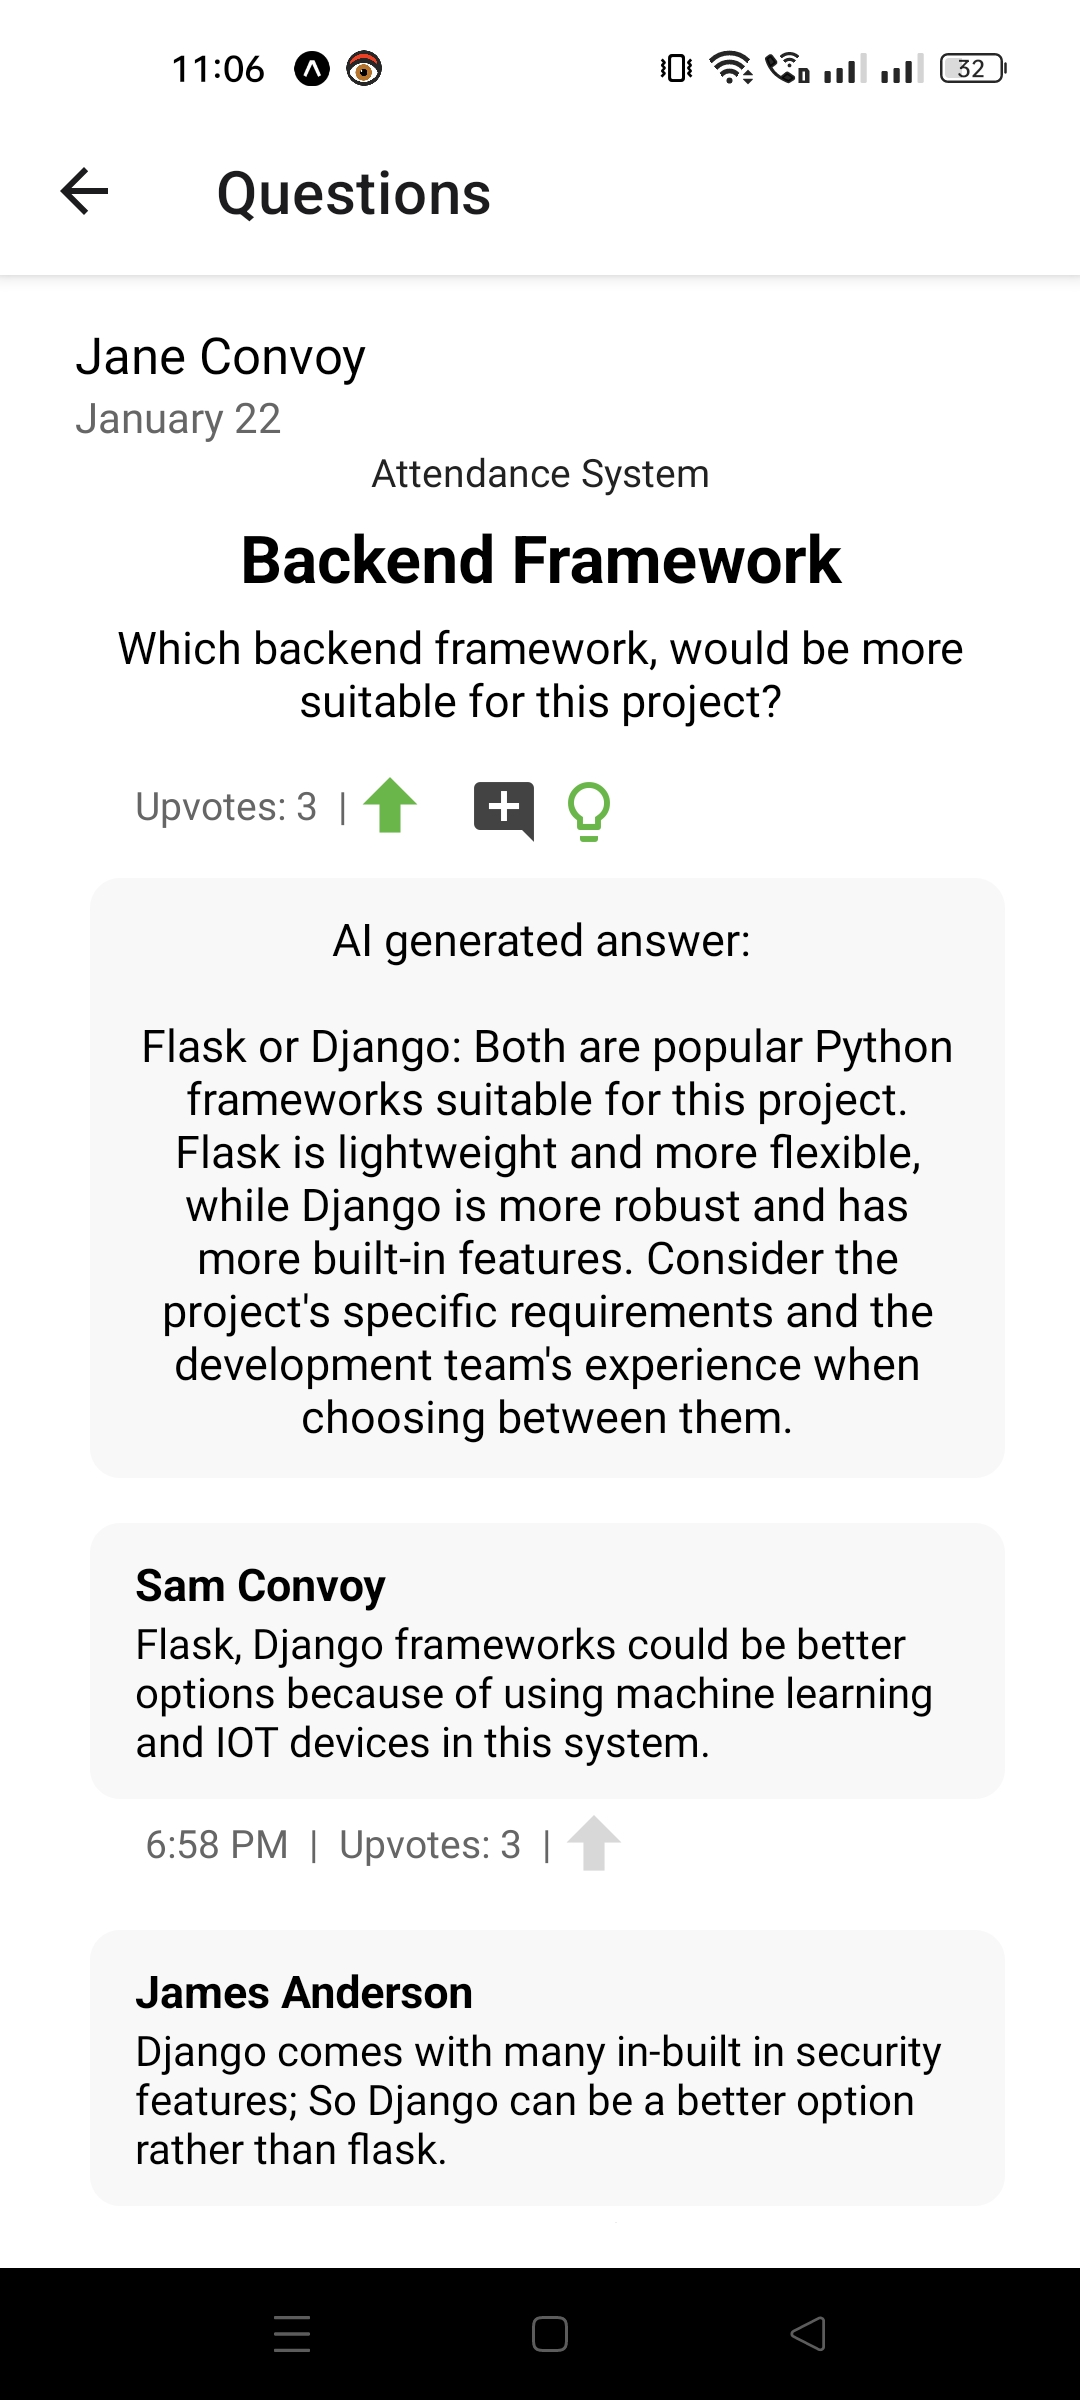
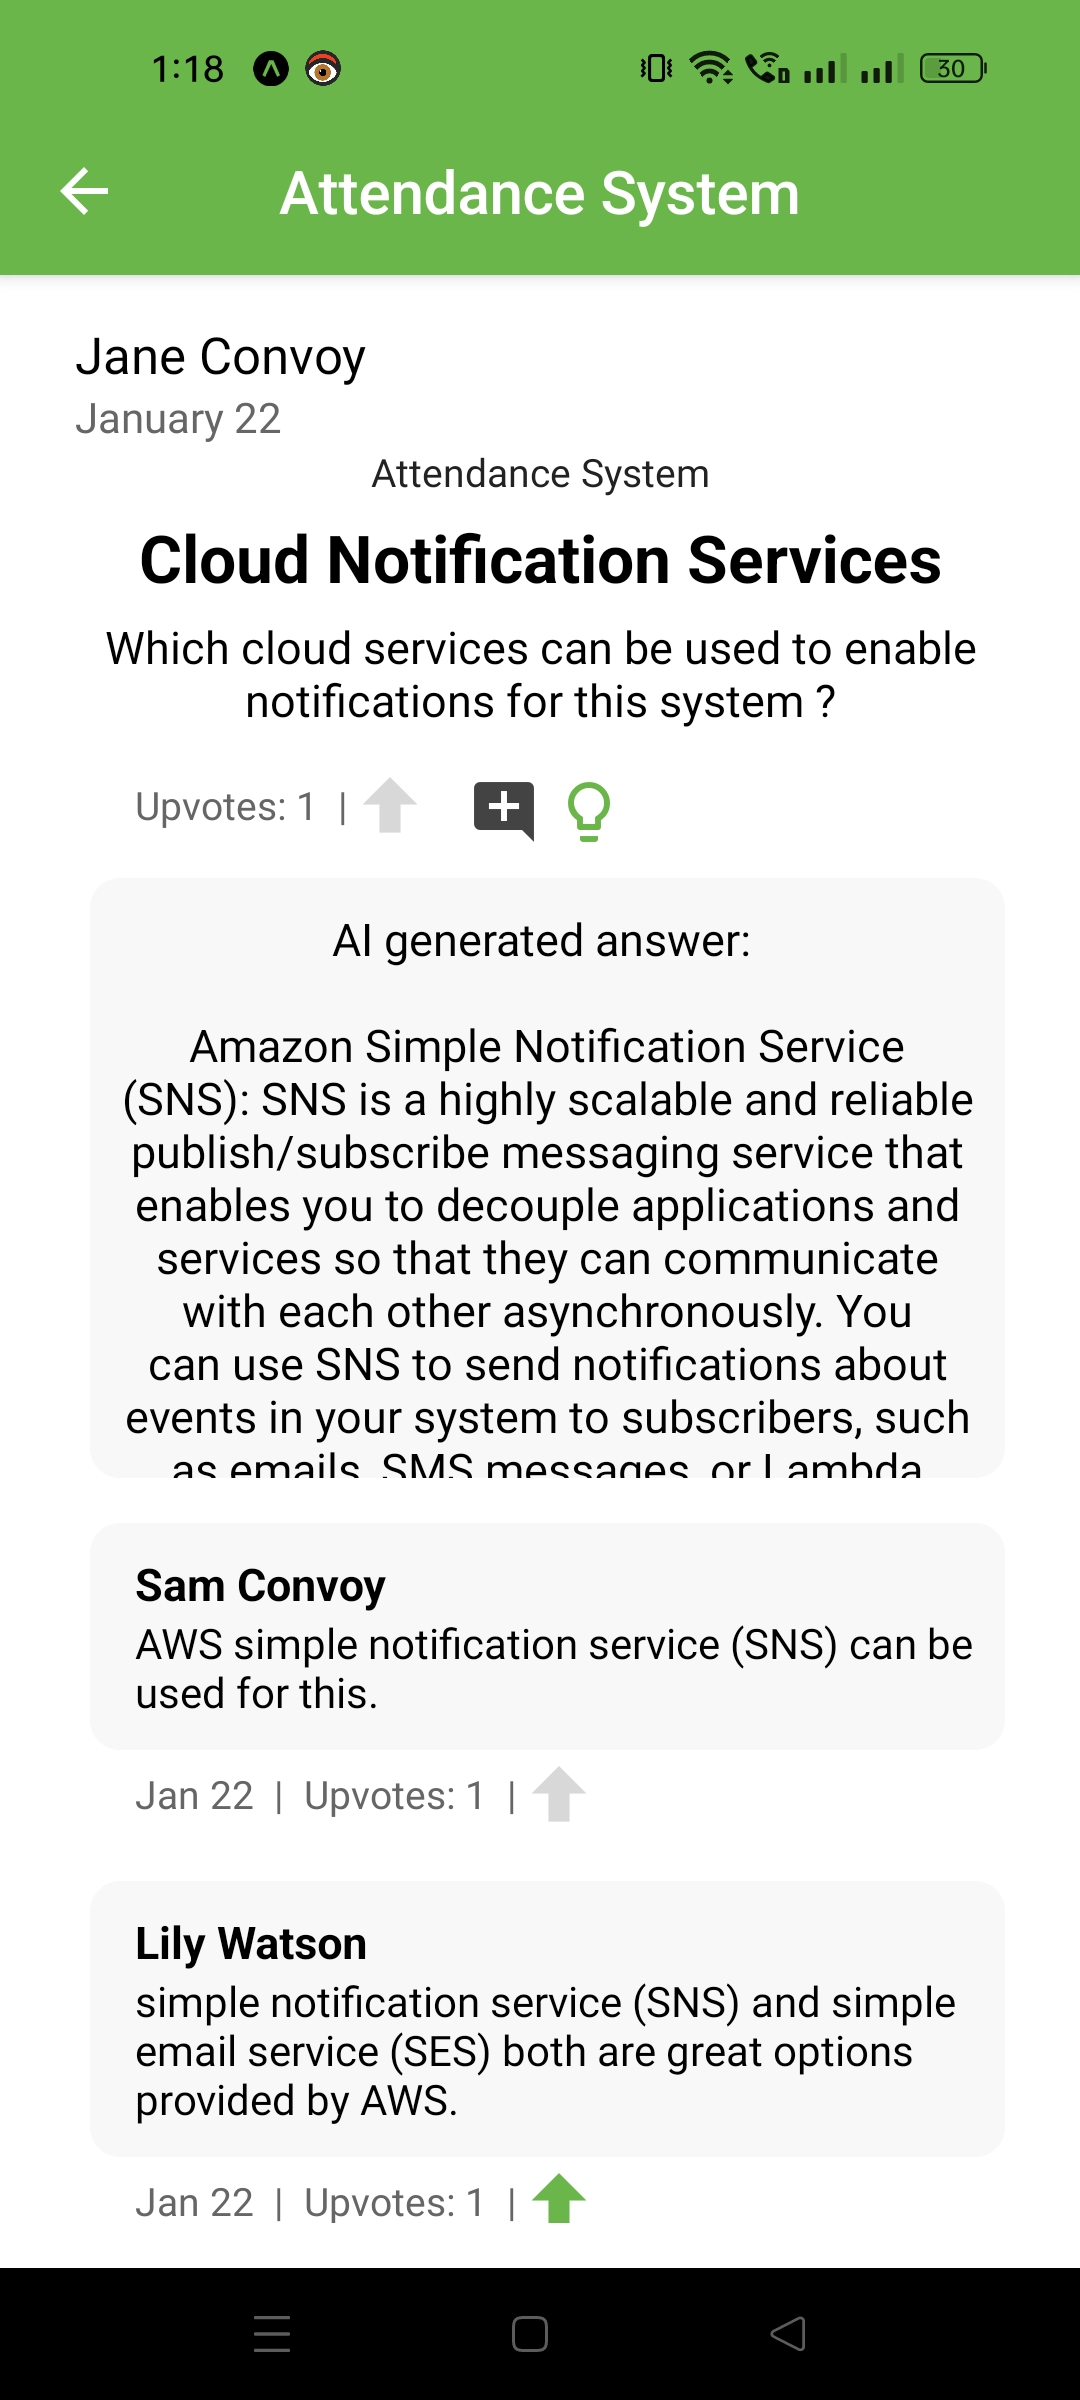
resources

diff --git a/frontend/src/AppNavigator.jsx b/frontend/src/AppNavigator.jsx
@@ -58,7 +58,17 @@ const AppNavigator = () => {
                           })
                         }/>
           <Stack.Screen name="Posts" component={PostsScreen}/>
-          <Stack.Screen name="Post" component={PostScreen} options={{ title: 'Questions' }}/>
+          <Stack.Screen name="Post" component={PostScreen}
+                        options={
+                          ({ route }) => ({
+                            title: route.params.projectTitle,
+                            headerStyle: {
+                              backgroundColor: '#6BB64a',
+                              fontWeight: 'bold',
+                            },
+                            headerTintColor: '#fff'
+                          })}
+                        />
         </Stack.Navigator>
       </NavigationContainer>
     </MessagesGlobalStateProvider>

diff --git a/frontend/src/screens/ForumScreen.jsx b/frontend/src/screens/ForumScreen.jsx
@@ -10,7 +10,7 @@ const ForumScreen = ({ navigation }) => {
     const RenderItem = ({ item }) => {
         console.log(item.defaultProcess);
         return (
-            <TouchableOpacity onPress={() => navigation.navigate('Posts', { projectId: item.id })}
+            <TouchableOpacity onPress={() => navigation.navigate('Posts', { projectId: item.id, projectTitle: item.title })}
                 style={styles.itemContainer} key={item.id}
             >
                 <View style={styles.ImageContainer}>

diff --git a/frontend/src/screens/PostsScreen.jsx b/frontend/src/screens/PostsScreen.jsx
@@ -11,7 +11,7 @@ const PostsScreen = ({ navigation, route }) => {
 
     const RenderItem = ({ item }) => {
         return (
-            <TouchableOpacity onPress={() => navigation.navigate('Post', { id: item.id })}
+            <TouchableOpacity onPress={() => navigation.navigate('Post', { id: item.id, projectTitle: route.params.projectTitle })}
                 style={styles.itemContainer} key={item.id}
             >
                 <Text style={styles.postTitle}>{item.title}</Text>
